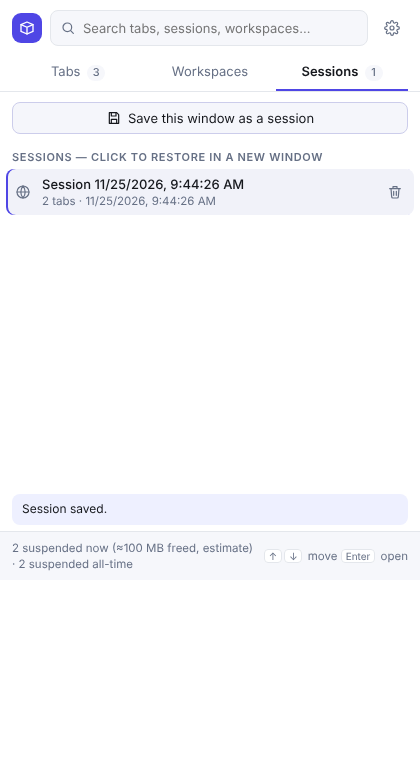
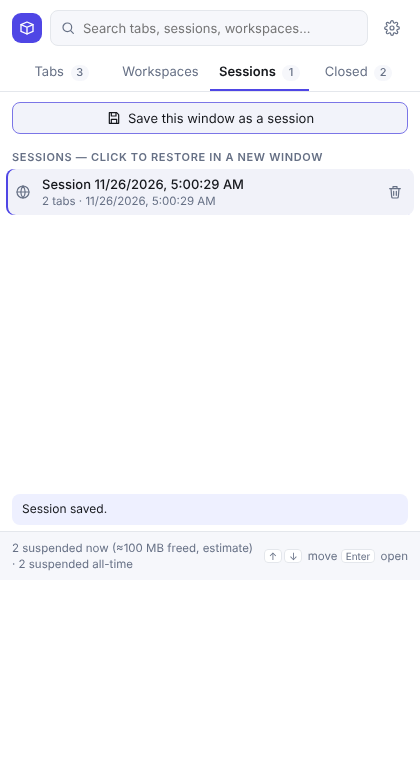
Add recently closed tabs view and duplicate tab badge
- Closed view lists recently closed tabs/windows and reopens them (sessions permission)
- Toolbar badge shows the number of duplicate tabs; toggle in settings
- Unit tests, e2e steps, docs, changelog and screenshots updated

diff --git a/src/entrypoints/popup/main.ts b/src/entrypoints/popup/main.ts
@@ -4,14 +4,15 @@ import { addSuspended, estimateMb, getStats } from '../../core/stats';
 import { findDuplicateIds } from '../../core/duplicates';
 import { groupWindow, ungroupWindow } from '../../core/grouping-apply';
 import { createIndex, search, type SearchDoc } from '../../core/search';
+import { listClosed, restoreClosed, timeAgo } from '../../core/closed';
 import { deleteSession, listSessions, restoreSession, saveCurrentWindow } from '../../core/sessions';
 import {
   createWorkspace, deleteWorkspace, getActiveWorkspaceId, listWorkspaces, switchWorkspace, updateWorkspaceFromWindow,
 } from '../../core/workspaces';
 
-type View = 'tabs' | 'workspaces' | 'sessions';
+type View = 'tabs' | 'workspaces' | 'sessions' | 'closed';
 type Filter = 'all' | 'suspended' | 'playing' | 'pinned' | 'duplicates';
-const VIEWS: View[] = ['tabs', 'workspaces', 'sessions'];
+const VIEWS: View[] = ['tabs', 'workspaces', 'sessions', 'closed'];
 const FILTERS: Array<{ id: Filter; label: string }> = [
   { id: 'all', label: 'All' }, { id: 'suspended', label: 'Suspended' }, { id: 'playing', label: 'Playing' },
   { id: 'pinned', label: 'Pinned' }, { id: 'duplicates', label: 'Duplicates' },
@@ -60,6 +61,7 @@ const ICONS = {
   trash: '<path d="M4 7h16M10 11v6M14 11v6M6 7l1 12a2 2 0 0 0 2 2h6a2 2 0 0 0 2-2l1-12M9 7V4h6v3"/>',
   save: '<path d="M5 4h11l3 3v13H5z"/><path d="M8 4v5h7V4M8 20v-6h8v6"/>',
   globe: '<circle cx="12" cy="12" r="9"/><path d="M3 12h18M12 3a14 14 0 0 1 0 18M12 3a14 14 0 0 0 0 18"/>',
+  undo: '<path d="M9 14 4 9l5-5"/><path d="M4 9h10a6 6 0 0 1 0 12h-3"/>',
   empty: '<path d="M3 7a2 2 0 0 1 2-2h4l2 2h8a2 2 0 0 1 2 2v8a2 2 0 0 1-2 2H5a2 2 0 0 1-2-2z"/>',
 } as const;
 type IconName = keyof typeof ICONS;
@@ -302,6 +304,21 @@ async function renderSessions(): Promise<HTMLElement[]> {
   ];
 }
 
+async function renderClosed(): Promise<HTMLElement[]> {
+  const closed = await listClosed();
+  const rows = closed.map((c) =>
+    item({
+      title: c.title,
+      sub: c.kind === 'window' ? `${c.url} + ${c.tabs - 1} more · ${timeAgo(c.closedAt)}` : `${c.url} · ${timeAgo(c.closedAt)}`,
+      icon: c.favIconUrl,
+      pills: [{ text: c.kind === 'window' ? 'window' : 'tab' }],
+      onClick: async () => { await restoreClosed(c.sessionId); dismissPopup(); await render(); },
+      buttons: [iconButton('undo', c.kind === 'window' ? 'Restore window' : 'Restore tab', async () => { await restoreClosed(c.sessionId); dismissPopup(); await render(); })],
+    }),
+  );
+  return [section(`Recently closed (${closed.length}) — click to reopen`), rows.length ? list(...rows) : empty('Nothing closed recently.')];
+}
+
 async function renderSearch(query: string): Promise<HTMLElement[]> {
   const [tabs, sessions, wss] = await Promise.all([chrome.tabs.query({}), listSessions(), listWorkspaces()]);
   const docs: SearchDoc[] = [];
@@ -335,10 +352,12 @@ async function renderSearch(query: string): Promise<HTMLElement[]> {
 }
 
 async function renderStats(): Promise<void> {
-  const [stats, tabs, sessions, wss] = await Promise.all([getStats(), chrome.tabs.query({}), listSessions(), listWorkspaces()]);
+  const [stats, tabs, sessions, wss, closed] = await Promise.all([
+    getStats(), chrome.tabs.query({}), listSessions(), listWorkspaces(), listClosed().catch(() => []),
+  ]);
   const now = tabs.filter((t) => t.discarded).length;
   statsEl.textContent = `${now} suspended now (≈${estimateMb(now)} MB freed, estimate) · ${stats.suspendedTotal} suspended all-time`;
-  const counts: Record<View, number> = { tabs: tabs.length, workspaces: wss.length, sessions: sessions.length };
+  const counts: Record<View, number> = { tabs: tabs.length, workspaces: wss.length, sessions: sessions.length, closed: closed.length };
   for (const v of VIEWS) nav.querySelector(`[data-count=${v}]`)!.textContent = counts[v] ? String(counts[v]) : '';
 }
 
@@ -359,7 +378,7 @@ async function render(): Promise<void> {
   const token = ++renderToken;
   actions = [];
   const query = q.value.trim();
-  const nodes = query ? await renderSearch(query) : view === 'tabs' ? await renderTabs() : view === 'workspaces' ? await renderWorkspaces() : await renderSessions();
+  const nodes = query ? await renderSearch(query) : view === 'tabs' ? await renderTabs() : view === 'workspaces' ? await renderWorkspaces() : view === 'sessions' ? await renderSessions() : await renderClosed();
   if (token !== renderToken) return; // a newer render superseded this one
   const scroll = main.scrollTop;
   main.replaceChildren(...nodes);

diff --git a/src/entrypoints/background.ts b/src/entrypoints/background.ts
@@ -1,4 +1,5 @@
 import { forget, getAll, seed, touch } from '../core/activity';
+import { findDuplicateIds } from '../core/duplicates';
 import { shouldSuspend } from '../core/rules';
 import { groupWindow } from '../core/grouping-apply';
 import { saveSnapshot } from '../core/sessions';
@@ -26,6 +27,24 @@ async function sweep(): Promise<void> {
   await addSuspended(count);
 }
 
+// Duplicate warning: the toolbar badge shows how many tabs repeat another tab's address in the same window.
+let badgeTimer: ReturnType<typeof setTimeout> | undefined;
+async function updateBadge(): Promise<void> {
+  const [settings, tabs] = await Promise.all([getSettings(), chrome.tabs.query({})]);
+  const n = settings.warnDuplicates ? findDuplicateIds(tabs).length : 0;
+  await chrome.action.setBadgeText({ text: n > 0 ? String(n) : '' });
+  if (n > 0) {
+    await chrome.action.setBadgeBackgroundColor({ color: '#c26401' });
+    await chrome.action.setTitle({ title: `TabVault: ${n} duplicate tab${n === 1 ? '' : 's'}` });
+  } else {
+    await chrome.action.setTitle({ title: 'TabVault' });
+  }
+}
+const scheduleBadge = () => {
+  clearTimeout(badgeTimer);
+  badgeTimer = setTimeout(() => void updateBadge().catch(() => undefined), 300);
+};
+
 // Auto-grouping: coalesce bursts of page loads into one pass per window, one window at a time.
 const pendingGroupWindows = new Set<number>();
 let groupChain: Promise<unknown> = Promise.resolve();
@@ -47,6 +66,7 @@ async function init(): Promise<void> {
   await chrome.alarms.create(SNAPSHOT_ALARM, { periodInMinutes: 15 });
   const tabs = await chrome.tabs.query({});
   await seed(tabs.flatMap((t) => (t.id === undefined ? [] : [t.id])));
+  await updateBadge();
 }
 
 export default defineBackground(() => {
@@ -64,10 +84,17 @@ export default defineBackground(() => {
   chrome.tabs.onActivated.addListener(({ tabId }) => void touch(tabId));
   chrome.tabs.onUpdated.addListener((tabId, info, tab) => {
     if (info.status === 'complete' || info.audible) void touch(tabId);
+    if (info.url || info.status === 'complete') scheduleBadge();
     // Only page loads trigger grouping; the group change itself fires a groupId update, which is ignored (no loop).
     if (info.status === 'complete' && tab.windowId !== undefined) {
       void getSettings().then((s) => (s.autoGroup ? scheduleAutoGroup(tab.windowId) : undefined));
     }
   });
-  chrome.tabs.onRemoved.addListener((tabId) => void forget(tabId));
+  chrome.tabs.onRemoved.addListener((tabId) => {
+    void forget(tabId);
+    scheduleBadge();
+  });
+  chrome.tabs.onCreated.addListener(scheduleBadge);
+  chrome.tabs.onAttached.addListener(scheduleBadge);
+  chrome.storage.onChanged.addListener((changes) => { if (changes.settings) scheduleBadge(); });
 });

diff --git a/src/core/closed.ts b/src/core/closed.ts
@@ -1,0 +1,52 @@
+/** Minimal shape of chrome.sessions.Session so the mapping stays testable without chrome.*. */
+export interface RawClosed {
+  lastModified: number;
+  tab?: { sessionId?: string; title?: string; url?: string; favIconUrl?: string };
+  window?: { sessionId?: string; tabs?: Array<{ title?: string; url?: string; favIconUrl?: string }> };
+}
+
+export interface ClosedEntry {
+  sessionId: string;
+  kind: 'tab' | 'window';
+  title: string;
+  url: string;
+  favIconUrl?: string;
+  /** Number of tabs for a closed window; 1 for a tab. */
+  tabs: number;
+  /** Milliseconds since epoch. */
+  closedAt: number;
+}
+
+/** Normalizes the browser's recently-closed list: drops entries that cannot be restored or have no address. */
+export function toClosedEntries(raw: RawClosed[]): ClosedEntry[] {
+  const out: ClosedEntry[] = [];
+  for (const r of raw) {
+    // Chrome reports lastModified in seconds.
+    const closedAt = r.lastModified * 1000;
+    if (r.tab?.sessionId && r.tab.url) {
+      out.push({ sessionId: r.tab.sessionId, kind: 'tab', title: r.tab.title || r.tab.url, url: r.tab.url, favIconUrl: r.tab.favIconUrl, tabs: 1, closedAt });
+    } else if (r.window?.sessionId && r.window.tabs?.length) {
+      const first = r.window.tabs[0]!;
+      const n = r.window.tabs.length;
+      out.push({ sessionId: r.window.sessionId, kind: 'window', title: `Window with ${n} tab${n === 1 ? '' : 's'}`, url: first.url ?? '', favIconUrl: first.favIconUrl, tabs: n, closedAt });
+    }
+  }
+  return out.sort((a, b) => b.closedAt - a.closedAt);
+}
+
+export async function listClosed(max = 25): Promise<ClosedEntry[]> {
+  return toClosedEntries(await chrome.sessions.getRecentlyClosed({ maxResults: max }));
+}
+
+export const restoreClosed = (sessionId: string) => chrome.sessions.restore(sessionId);
+
+/** "just now", "5 min ago", "3 h ago", "2 d ago". */
+export function timeAgo(then: number, now = Date.now()): string {
+  const s = Math.max(0, Math.round((now - then) / 1000));
+  if (s < 60) return 'just now';
+  const m = Math.round(s / 60);
+  if (m < 60) return `${m} min ago`;
+  const h = Math.round(m / 60);
+  if (h < 24) return `${h} h ago`;
+  return `${Math.round(h / 24)} d ago`;
+}

diff --git a/tests/unit/closed.test.ts b/tests/unit/closed.test.ts
@@ -1,0 +1,24 @@
+import { describe, expect, it } from 'vitest';
+import { timeAgo, toClosedEntries } from '../../src/core/closed';
+
+describe('toClosedEntries', () => {
+  it('maps tabs and windows, newest first, and skips unrestorable entries', () => {
+    const out = toClosedEntries([
+      { lastModified: 100, tab: { sessionId: 'a', title: 'Old', url: 'https://a.test' } },
+      { lastModified: 300, window: { sessionId: 'w', tabs: [{ url: 'https://w.test' }, { url: 'https://x.test' }] } },
+      { lastModified: 200, tab: { sessionId: 'b', url: 'https://b.test' } },
+      { lastModified: 400, tab: { title: 'no session id', url: 'https://c.test' } },
+      { lastModified: 500, window: { sessionId: 'empty', tabs: [] } },
+    ]);
+    expect(out.map((e) => e.sessionId)).toEqual(['w', 'b', 'a']);
+    expect(out[0]).toMatchObject({ kind: 'window', tabs: 2, title: 'Window with 2 tabs', closedAt: 300_000 });
+    expect(out[1]!.title).toBe('https://b.test'); // falls back to the address
+  });
+});
+
+describe('timeAgo', () => {
+  const now = 1_000_000_000;
+  it.each([
+    [now - 5_000, 'just now'], [now - 5 * 60_000, '5 min ago'], [now - 3 * 3_600_000, '3 h ago'], [now - 2 * 86_400_000, '2 d ago'],
+  ])('%s', (t, label) => expect(timeAgo(t, now)).toBe(label));
+});

diff --git a/src/entrypoints/options/main.ts b/src/entrypoints/options/main.ts
@@ -15,6 +15,7 @@ async function load(): Promise<void> {
   $<HTMLInputElement>('pinned').checked = s.suspendPinned;
   $<HTMLInputElement>('audible').checked = s.suspendAudible;
   $<HTMLInputElement>('snapshots').checked = s.autoSnapshots;
+  $<HTMLInputElement>('warndupes').checked = s.warnDuplicates;
   $<HTMLTextAreaElement>('whitelist').value = s.whitelist.join('\n');
   $<HTMLInputElement>('autogroup').checked = s.autoGroup;
   $<HTMLInputElement>('mingroup').value = String(s.minGroupSize);
@@ -27,6 +28,7 @@ $('save').addEventListener('click', async () => {
     suspendPinned: $<HTMLInputElement>('pinned').checked,
     suspendAudible: $<HTMLInputElement>('audible').checked,
     autoSnapshots: $<HTMLInputElement>('snapshots').checked,
+    warnDuplicates: $<HTMLInputElement>('warndupes').checked,
     whitelist: $<HTMLTextAreaElement>('whitelist').value.split('\n'),
     autoGroup: $<HTMLInputElement>('autogroup').checked,
     minGroupSize: Number($<HTMLInputElement>('mingroup').value),

diff --git a/src/entrypoints/popup/style.css b/src/entrypoints/popup/style.css
@@ -40,7 +40,7 @@ button.primary:hover { background: var(--accent); filter: brightness(1.08); }
 button.danger:hover { border-color: var(--danger); color: var(--danger); }
 
 nav { display: flex; padding: 0 12px; border-bottom: 1px solid var(--line); }
-nav button { flex: 1; border: 0; border-bottom: 2px solid transparent; border-radius: 0; color: var(--muted); padding: 8px 6px; background: none; }
+nav button { flex: 1; white-space: nowrap; border: 0; border-bottom: 2px solid transparent; border-radius: 0; color: var(--muted); padding: 8px 6px; background: none; }
 nav button:hover { color: var(--fg); background: none; }
 nav button[aria-selected='true'] { color: var(--fg); border-bottom-color: var(--accent); font-weight: 600; }
 .count { display: inline-block; min-width: 18px; padding: 0 5px; margin-left: 3px; border-radius: 9px; background: var(--surface); color: var(--muted); font-size: 11px; font-weight: 500; text-align: center; }

diff --git a/src/entrypoints/popup/index.html b/src/entrypoints/popup/index.html
@@ -19,6 +19,7 @@
       <button role="tab" data-view="tabs" aria-selected="true">Tabs <span class="count" data-count="tabs"></span></button>
       <button role="tab" data-view="workspaces" aria-selected="false">Workspaces <span class="count" data-count="workspaces"></span></button>
       <button role="tab" data-view="sessions" aria-selected="false">Sessions <span class="count" data-count="sessions"></span></button>
+      <button role="tab" data-view="closed" aria-selected="false">Closed <span class="count" data-count="closed"></span></button>
     </nav>
     <main id="main"></main>
     <p id="toast" role="status" aria-live="polite"></p>

diff --git a/tests/unit/settings-schema.test.ts b/tests/unit/settings-schema.test.ts
@@ -16,6 +16,11 @@ describe('normalizeHost', () => {
 });
 
 describe('sanitizeSettings', () => {
+  it('defaults warnDuplicates on and respects an explicit false', () => {
+    expect(sanitizeSettings({}).warnDuplicates).toBe(true);
+    expect(sanitizeSettings({ warnDuplicates: false }).warnDuplicates).toBe(false);
+    expect(sanitizeSettings({ warnDuplicates: 'no' }).warnDuplicates).toBe(true);
+  });
   it('returns defaults for garbage', () => {
     expect(sanitizeSettings(null)).toEqual(DEFAULT_SETTINGS);
     expect(sanitizeSettings('x')).toEqual(DEFAULT_SETTINGS);

diff --git a/src/core/types.ts b/src/core/types.ts
@@ -11,6 +11,8 @@ export interface Settings {
   autoGroup: boolean;
   /** A site-based group is only created when at least this many tabs share it. */
   minGroupSize: number;
+  /** Show the number of duplicate tabs as a badge on the toolbar icon. */
+  warnDuplicates: boolean;
   /** User rules that name the group for a site; they win over built-in categories. */
   groupRules: GroupRule[];
 }
@@ -30,6 +32,7 @@ export const DEFAULT_SETTINGS: Settings = {
   autoSnapshots: true,
   autoGroup: false,
   minGroupSize: 2,
+  warnDuplicates: true,
   groupRules: [],
 };
 

diff --git a/src/entrypoints/options/index.html b/src/entrypoints/options/index.html
@@ -35,6 +35,11 @@
     </fieldset>
 
     <fieldset>
+      <legend>Duplicate tabs</legend>
+      <label class="check"><input id="warndupes" type="checkbox" /> Show a badge on the TabVault icon when tabs in the same window have the same address</label>
+    </fieldset>
+
+    <fieldset>
       <legend>Safety net</legend>
       <label class="check"><input id="snapshots" type="checkbox" /> Save an automatic snapshot of all open tabs every 15 minutes (latest 10 kept)</label>
     </fieldset>

diff --git a/wxt.config.ts b/wxt.config.ts
@@ -5,7 +5,7 @@ export default defineConfig({
   manifest: {
     name: 'TabVault',
     description: 'Fast, private tab and session manager with search. Suspends idle tabs, saves sessions, finds anything.',
-    permissions: ['tabs', 'tabGroups', 'storage', 'alarms'],
+    permissions: ['tabs', 'tabGroups', 'storage', 'alarms', 'sessions'],
     action: { default_title: 'Open TabVault' },
     commands: {
       _execute_action: {

diff --git a/src/core/settings-schema.ts b/src/core/settings-schema.ts
@@ -61,6 +61,7 @@ export function sanitizeSettings(raw: unknown): Settings {
     minGroupSize: Number.isFinite(Number(r.minGroupSize))
       ? Math.min(10, Math.max(2, Math.round(Number(r.minGroupSize))))
       : DEFAULT_SETTINGS.minGroupSize,
+    warnDuplicates: typeof r.warnDuplicates === 'boolean' ? r.warnDuplicates : DEFAULT_SETTINGS.warnDuplicates,
     groupRules: sanitizeGroupRules(r.groupRules),
   };
 }
